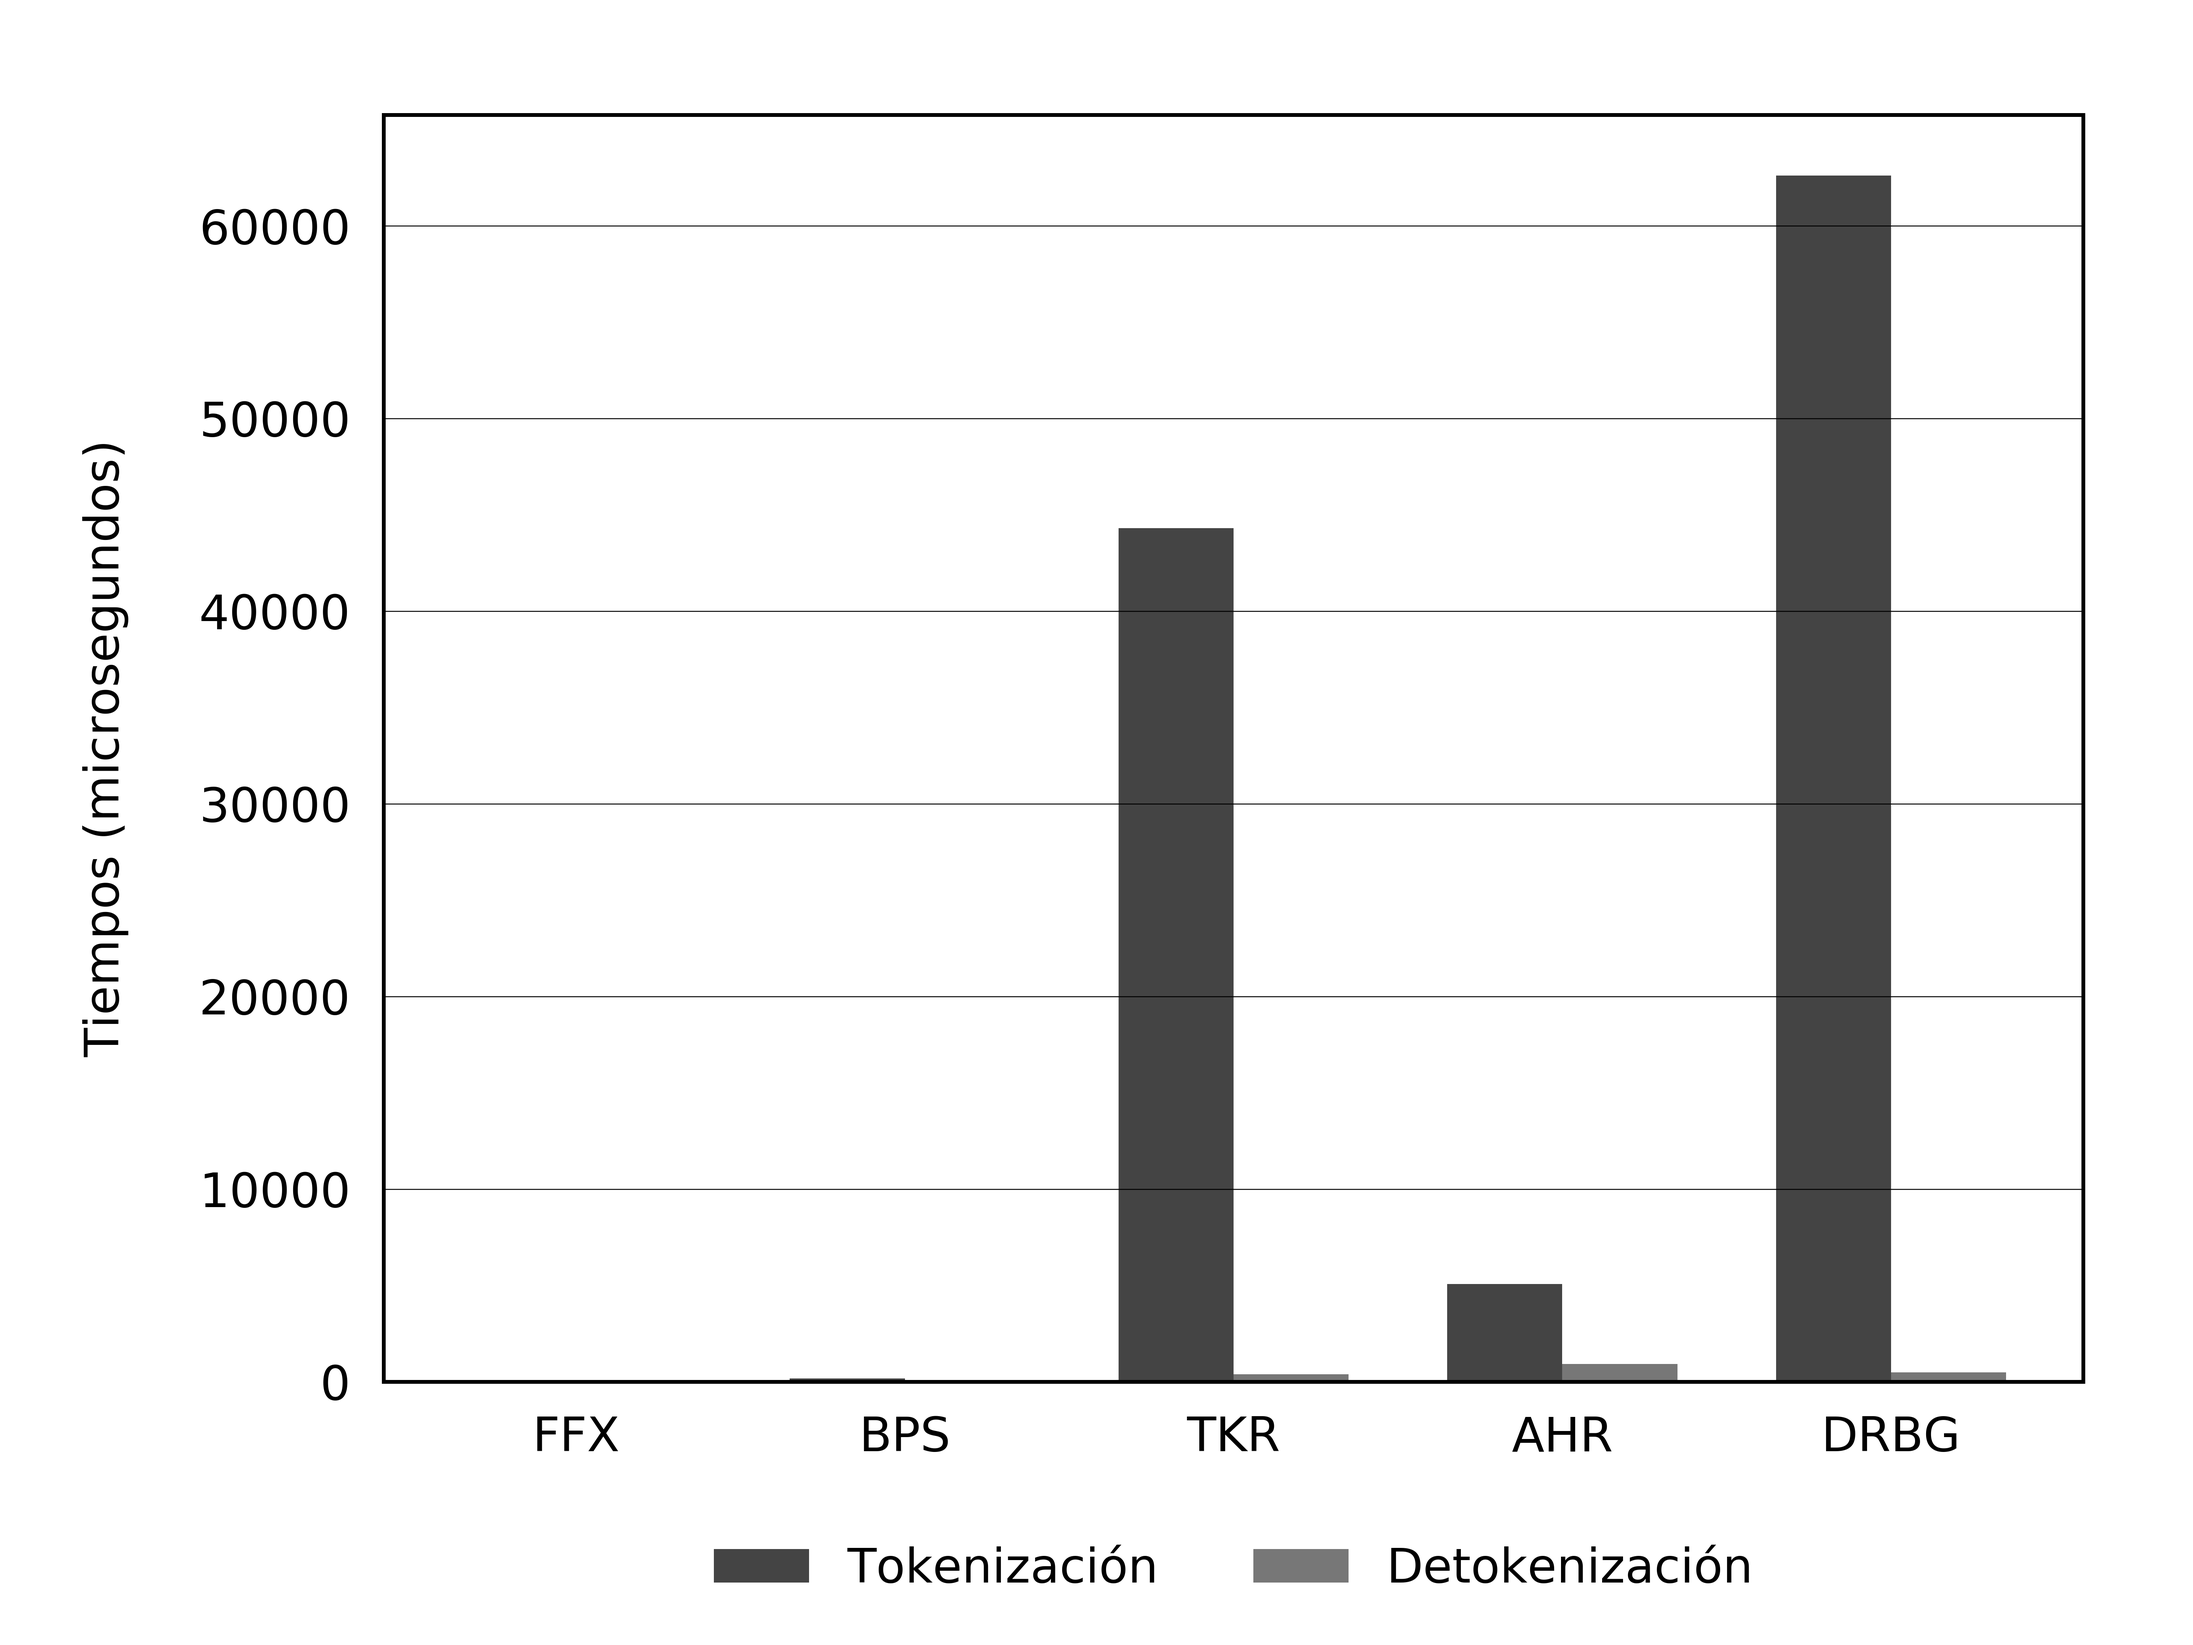
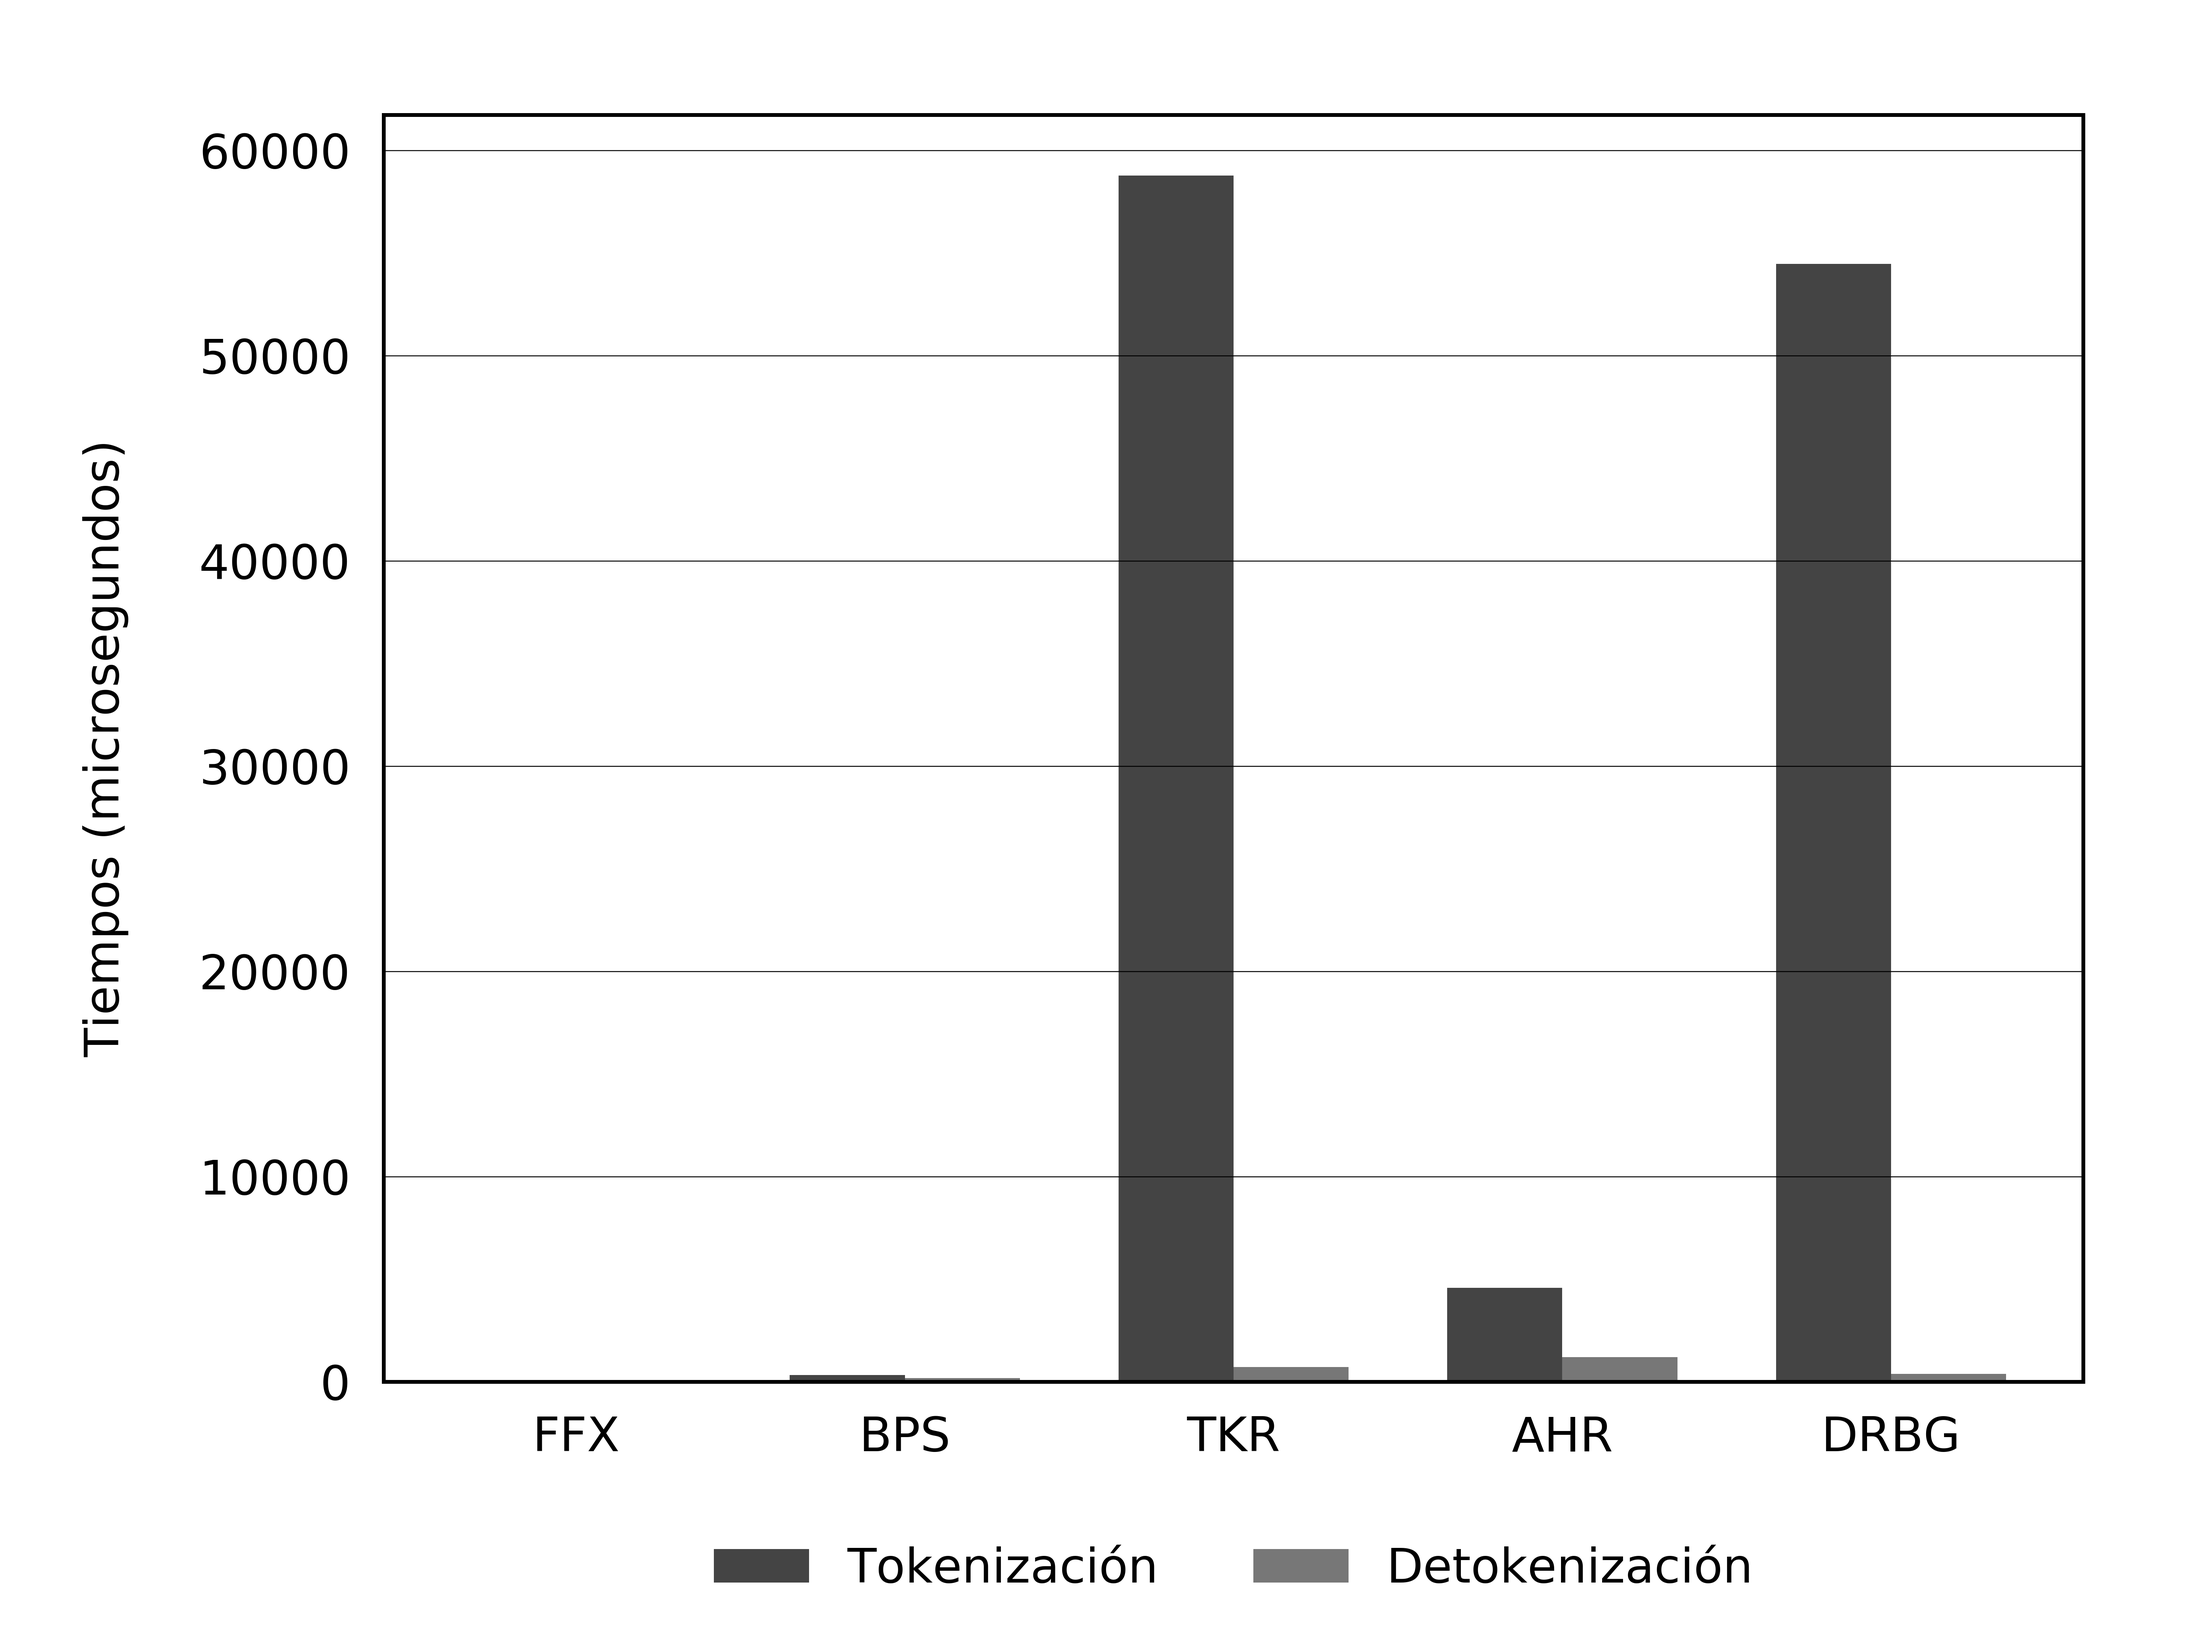
Optimización de DRBG
Lo único que se me ocurre del lado del cliente. Lo que sigue, para
intentar hacerlo más rápido, es revisar la implementación propia del
DRBG. Aunque se le cambiara algo, la idea general va a ser la misma, por
lo que ya voy a poner en el artículo lo referente a este método.

Con lo que va en este commit, ya se puede argumentar que la
implementación es diferente a lo que proponen en el artículo de TKR; el
objeto desde hasta arriba sigue siendo el mismo, pero ese solo provee la
conexión con la base.

Esto es parte de #81 y #79.

diff --git a/implementaciones/tkr/funcion_drbg_prueba.cpp b/implementaciones/tkr/funcion_drbg_prueba.cpp
@@ -1,0 +1,48 @@
+/**
+ * \file
+ * \brief Implementación de pruebas de la función de drbg.
+ *
+ * Proyecto Lovelace.
+ */
+
+#include "cabeceras/funcion_drbg.hh"
+#include "cabeceras/funcion_drbg_prueba.hh"
+#include "../drbg/cabeceras/drbg.hh"
+#include "../drbg/cabeceras/hash_drbg.hh"
+#include <iostream>
+
+using namespace Implementaciones;
+using namespace ImplementacionesPruebas;
+using namespace std;
+
+FuncionDRBGPrueba::FuncionDRBGPrueba()
+: Utilidades::Prueba{"pruebas de función de DRBG"}
+{
+  mListaDePruebas.push_back(Utilidades::FuncionDePrueba{
+    "Generación de tokens aleatorios",
+    FuncionDRBGPrueba::probarOperacion
+  });
+}
+
+/**
+ * Verifica que la generación de tokens aleatorios sea correcta.
+ *
+ * \return Estado de la prueba.
+ */
+
+bool FuncionDRBGPrueba::probarOperacion()
+{
+  DRBG *drbg = new HashDRBG{Arreglo<unsigned char>{1, 2, 3},
+    DRBG::NivelDeSeguridad::nivel128, HashDRBG::TipoDeFuncionHash::SHA256};
+  FuncionDRBG funcion {drbg};
+  ArregloDeDigitos pruebaUno = funcion.operar({10u});
+  cout << "Prueba uno: " << pruebaUno << endl;
+  if (pruebaUno.obtenerNumeroDeElementos() != 10)
+    return false;
+  ArregloDeDigitos pruebaDos = funcion.operar({5u});
+  cout << "Prueba dos: " << pruebaDos << endl;
+  if (pruebaDos.obtenerNumeroDeElementos() != 5)
+    return false;
+  //delete drbg;
+  return true;
+}

diff --git a/implementaciones/tkr/funcion_drbg.cpp b/implementaciones/tkr/funcion_drbg.cpp
@@ -1,0 +1,42 @@
+/**
+ * \file
+ * \brief Definición de función que interactúa con DRBG, tipo TKR.
+ *
+ * Proyecto Lovelace.
+ */
+
+#include "cabeceras/funcion_drbg.hh"
+#include "../drbg/cabeceras/drbg.hh"
+
+using namespace Implementaciones;
+using namespace std;
+
+/**
+ * Construye una nueva instancia con el generador dado. Los clientes son los
+ * responsables de la gestión de la memoria.
+ */
+
+FuncionDRBG::FuncionDRBG(
+  DRBG *drbg              /**< Referencia a generador pseudoaleatorio. */
+)
+: mDrbg {drbg}
+{
+}
+
+/**
+ * La idea es muy simple: pedir n bytes aleatorios e irles sacando
+ * módulo 10 antes de ponerlos en el arreglo resultado.
+ *
+ * \return Token pseudoaleatorio.
+ */
+
+ArregloDeDigitos FuncionDRBG::operar(
+  const vector<unsigned int>& entrada   /** Recibe la longitud del resultado. */
+)
+{
+  Arreglo<unsigned char> aleatorios = mDrbg->operar({entrada[0]});
+  ArregloDeDigitos resultado(entrada[0]);
+  for (unsigned int i = 0; i < entrada[0]; i++)
+    resultado[i] = aleatorios[i] % 10;
+  return resultado;
+}

diff --git a/implementaciones/pruebas_desempenio.cpp b/implementaciones/pruebas_desempenio.cpp
@@ -13,6 +13,7 @@
 #include "drbg/cabeceras/hash_drbg.hh"
 #include "drbg/cabeceras/pseudoaleatorio_drbg.hh"
 #include "ffx/cabeceras/ffx_a10.hh"
+#include "tkr/cabeceras/funcion_drbg.hh"
 #include "tkr/cabeceras/funcion_rn.hh"
 #include "tkr/cabeceras/pseudoaleatorio_aes.hh"
 #include "tkr/cabeceras/pseudoaleatorio_trivial.hh"
@@ -152,8 +153,7 @@ tuple<AlgoritmoTokenizador*, int> parametrizarAlgoritmo(const char* algoritmo)
     CDV* accesoADatos = new AccesoMySQL {};
     DRBG *drbg = new HashDRBG{Arreglo<unsigned char>{1, 2, 3},
       DRBG::NivelDeSeguridad::nivel128, HashDRBG::TipoDeFuncionHash::SHA256};
-    PseudoaleatorioDRBG *puenteDRBG{new PseudoaleatorioDRBG{drbg}};
-    FuncionRN* funcion = new FuncionRN {puenteDRBG, accesoADatos, 9};
+    FuncionDRBG* funcion = new FuncionDRBG{drbg};
     return make_tuple(new TKR{funcion, accesoADatos}, ID_DRBG);
   }
   AlgoritmoTokenizador* algoritmoNulo {nullptr};

diff --git a/implementaciones/lovelace.cpp b/implementaciones/lovelace.cpp
@@ -12,6 +12,7 @@
 #include "drbg/cabeceras/hash_drbg.hh"
 #include "drbg/cabeceras/pseudoaleatorio_drbg.hh"
 #include "ffx/cabeceras/ffx_a10.hh"
+#include "tkr/cabeceras/funcion_drbg.hh"
 #include "tkr/cabeceras/funcion_rn.hh"
 #include "tkr/cabeceras/pseudoaleatorio_aes.hh"
 #include "tkr/cabeceras/pseudoaleatorio_trivial.hh"
@@ -246,8 +247,7 @@ ArregloDeDigitos tokenizar(
     CDV* accesoADatos = new AccesoMySQL {};
     DRBG *drbg = new HashDRBG{Arreglo<unsigned char>{1, 2, 3},
       DRBG::NivelDeSeguridad::nivel128, HashDRBG::TipoDeFuncionHash::SHA256};
-    PseudoaleatorioDRBG *puenteDRBG{new PseudoaleatorioDRBG{drbg}};
-    FuncionRN* funcion = new FuncionRN {puenteDRBG, accesoADatos, longitud};
+    FuncionDRBG* funcion = new FuncionDRBG{drbg};
     algoritmoTokenizador = new TKR{funcion, accesoADatos};
   }
   resultado = algoritmoTokenizador->operar({pan});

diff --git a/implementaciones/programa_de_pruebas.cpp b/implementaciones/programa_de_pruebas.cpp
@@ -18,6 +18,7 @@
 #include "redes_feistel/cabeceras/red_feistel_alternante_prueba.hh"
 #include "redes_feistel/cabeceras/red_feistel_desbalanceada_prueba.hh"
 #include "tkr/cabeceras/funcion_rn_prueba.hh"
+#include "tkr/cabeceras/funcion_drbg_prueba.hh"
 #include "tkr/cabeceras/pseudoaleatorio_aes_prueba.hh"
 #include "tkr/cabeceras/pseudoaleatorio_trivial_prueba.hh"
 #include "tkr/cabeceras/tkr_prueba.hh"
@@ -64,7 +65,8 @@ int main()
       CTRDRBGPrueba {},
       AHRPrueba {},
       AESPrueba {},
-      AleatoriedadHardwarePrueba {}
+      AleatoriedadHardwarePrueba {},
+      FuncionDRBGPrueba {}
     }
   };
 }

diff --git a/implementaciones/reportes/tiempos_unitarios.tex b/implementaciones/reportes/tiempos_unitarios.tex
@@ -1,5 +1,5 @@
-FFX & 81 & 60 \\\hline 
-BPS & 169 & 88 \\\hline 
-TKR & 44314 & 390 \\\hline 
-AHR & 5077 & 923 \\\hline 
-DRBG & 62613 & 486 \\\hline 
+FFX & 78 & 60 \\\hline 
+BPS & 331 & 181 \\\hline 
+TKR & 58773 & 717 \\\hline 
+AHR & 4584 & 1201 \\\hline 
+DRBG & 54473 & 391 \\\hline 
